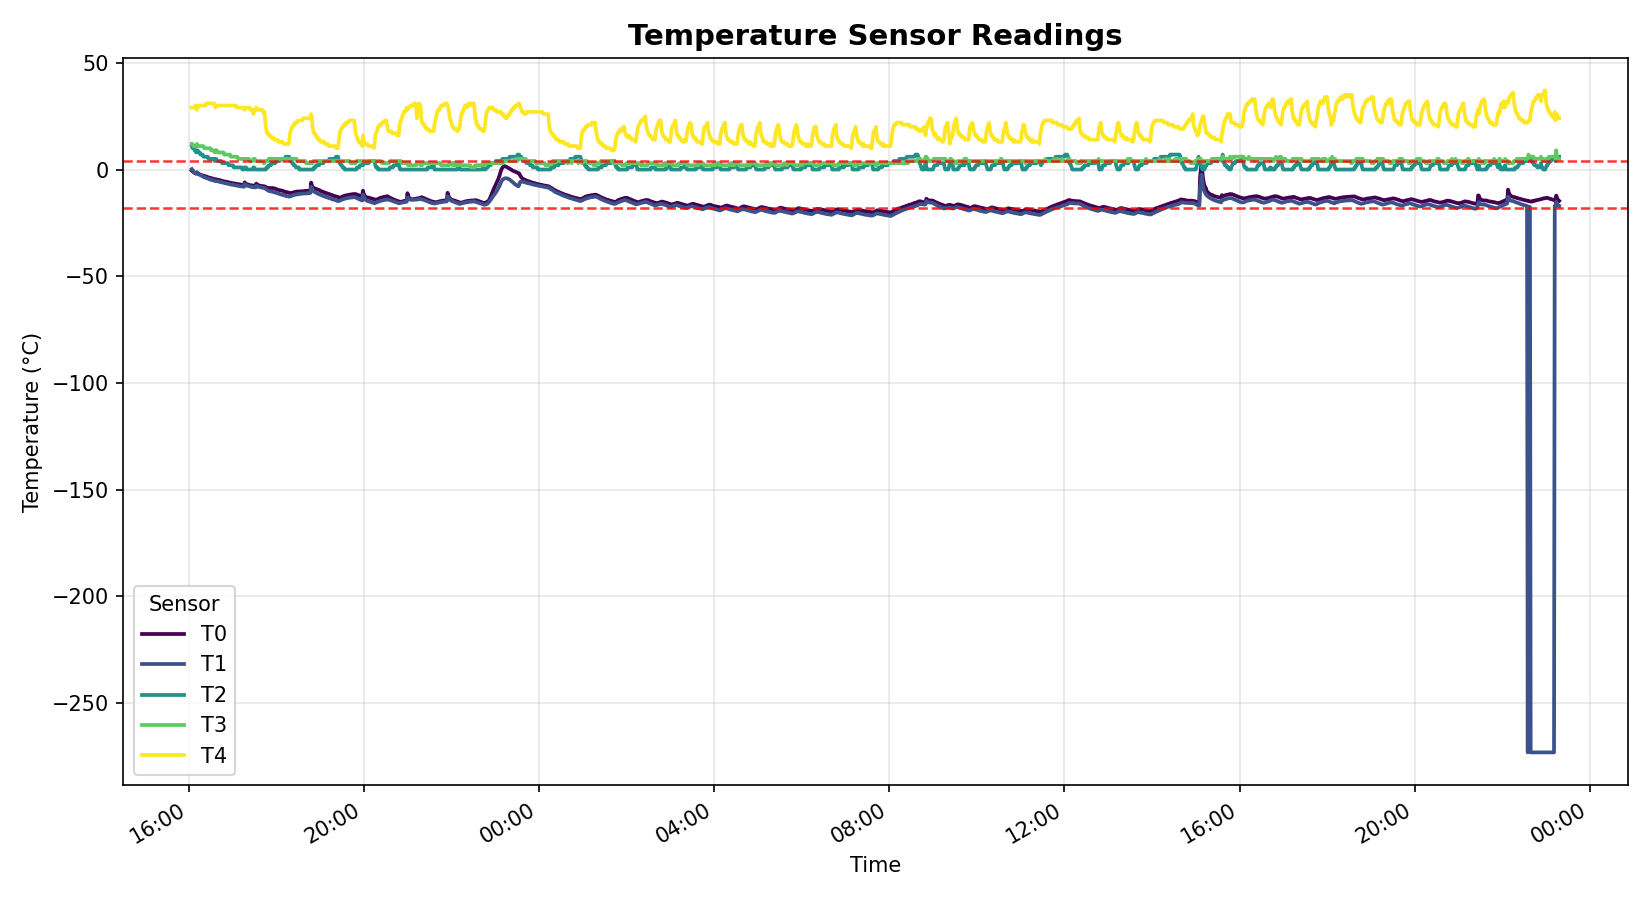
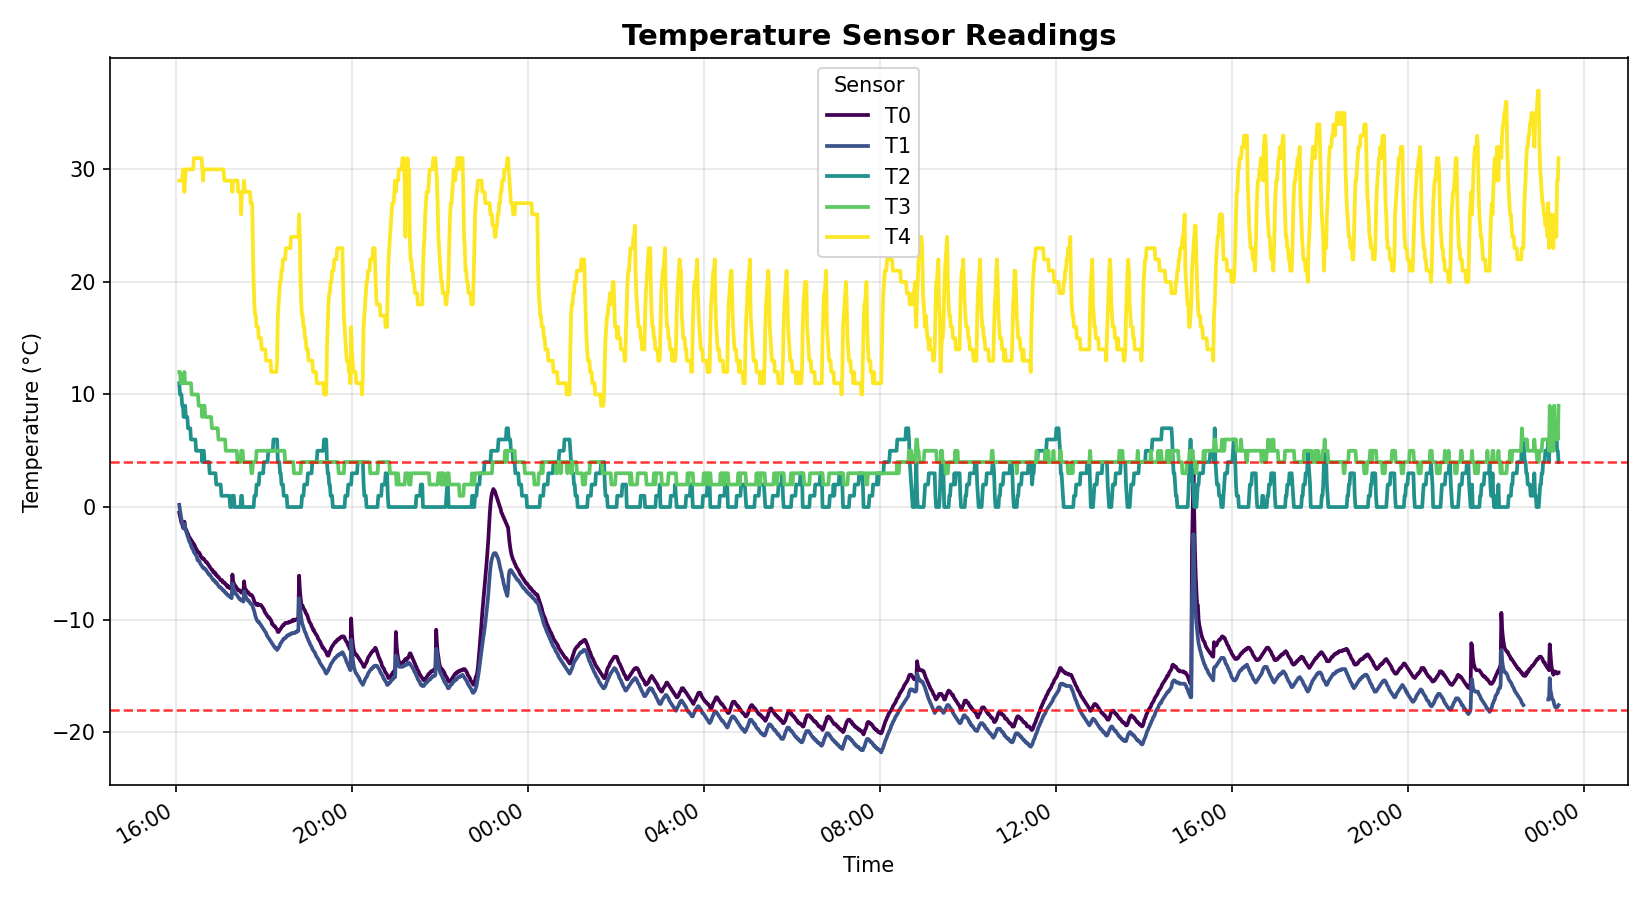
Update temperature plot 2026-08-04 23:26

diff --git a/plot_temps.py b/plot_temps.py
@@ -55,6 +55,11 @@ def plot_temperatures(csv_path: str, output_path: str) -> None:
 
     sensor_cols = [c for c in df.columns if c != "Time"]
 
+    # A sensor read failure is reported as -273.2 C. Treat anything below
+    # -50 C as a failed reading and drop it (as a gap) rather than plot it.
+    FAILED_READING_THRESHOLD = -50
+    df[sensor_cols] = df[sensor_cols].where(df[sensor_cols] >= FAILED_READING_THRESHOLD)
+
     fig, ax = plt.subplots(figsize=(11, 6))
 
     colors = plt.cm.viridis([i / max(len(sensor_cols) - 1, 1) for i in range(len(sensor_cols))])
